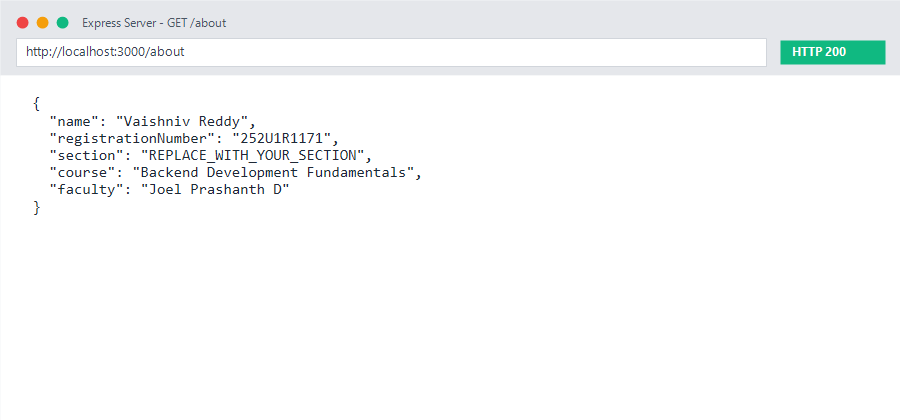
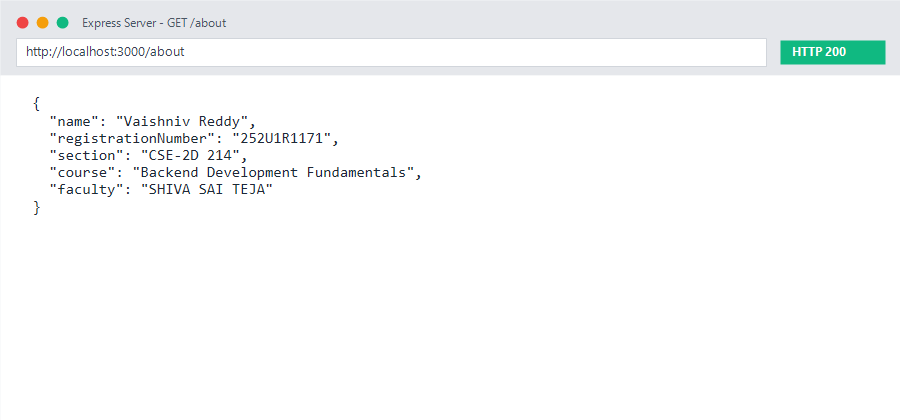
docs(lab-01): update section to CSE-2D 214 and faculty to SHIVA SAI TEJA

Changed region(s): [[0.1556, 0.3405, 0.4044, 0.4024], [0.1556, 0.4333, 0.3111, 0.4643]]

diff --git a/lab-01/server.js b/lab-01/server.js
@@ -22,9 +22,9 @@ app.get('/about', (req, res) => {
   res.status(200).json({
     name: 'Vaishniv Reddy',
     registrationNumber: '252U1R1171',
-    section: 'REPLACE_WITH_YOUR_SECTION',
+    section: 'CSE-2D 214',
     course: 'Backend Development Fundamentals',
-    faculty: 'Joel Prashanth D'
+    faculty: 'SHIVA SAI TEJA'
   });
 });
 

diff --git a/lab-01/test_routes.js b/lab-01/test_routes.js
@@ -78,3 +78,4 @@ setTimeout(async () => {
     process.exit(0);
   }
 }, 1500);
+

diff --git a/README.md b/README.md
@@ -2,7 +2,7 @@
 
 **Student:** Vaishniv Reddy  
 **Year & Term:** Year II Term II  
-**Faculty:** Joel Prashanth D  
+**Faculty:** SHIVA SAI TEJA  
 
 ---
 
@@ -27,3 +27,4 @@
 - Do not commit `node_modules` or `.env` files.
 - Commit regularly with clear, descriptive commit messages.
 - Each lab contains its own dedicated `README.md`, screenshots, and test scripts.
+

diff --git a/lab-01/README.md b/lab-01/README.md
@@ -2,9 +2,9 @@
 
 **Student Name:** Vaishniv Reddy  
 **Registration Number:** 252U1R1171  
-**Section:** REPLACE_WITH_YOUR_SECTION  
+**Section:** CSE-2D 214
 **Course:** Backend Development Fundamentals (Year II Term II)  
-**Faculty:** Joel Prashanth D  
+**Faculty:** SHIVA SAI TEJA 
 
 ---
 
